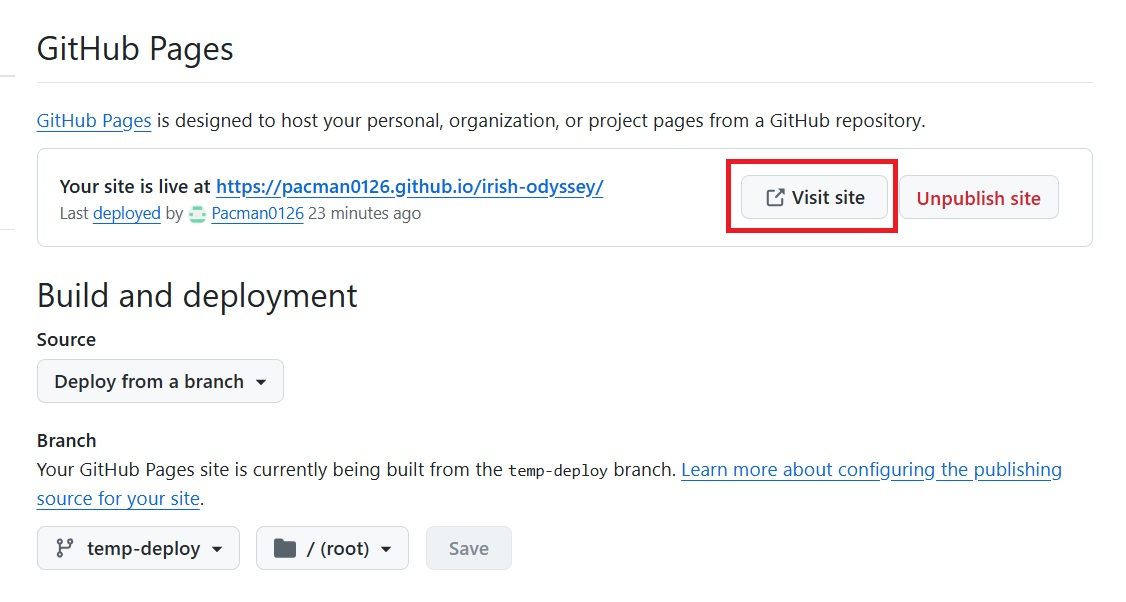
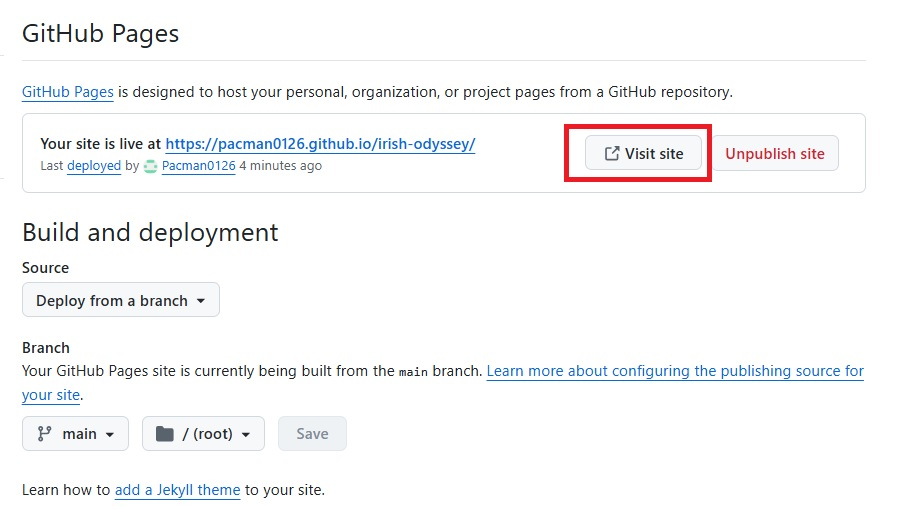
Swap screenshot in Deployment section of README

diff --git a/README.md b/README.md
@@ -64,7 +64,7 @@ If you haven't yet pushed this project to GitHub, run the following commands:
    ![Alt text](assets/images/readme-screenshots/build-and-deploy.jpg ) 
 
 5. Click **Save**.  
-6. Click Vist Site button. GitHub will show the published URL (e.g., `https://Pacman0126.github.io/irish-odyssey/`).
+6. Click Visit Site button. GitHub will show the published URL (e.g., `https://Pacman0126.github.io/irish-odyssey/`).
 
    ![Alt text](assets/images/readme-screenshots/visit-site.jpg) 
 
